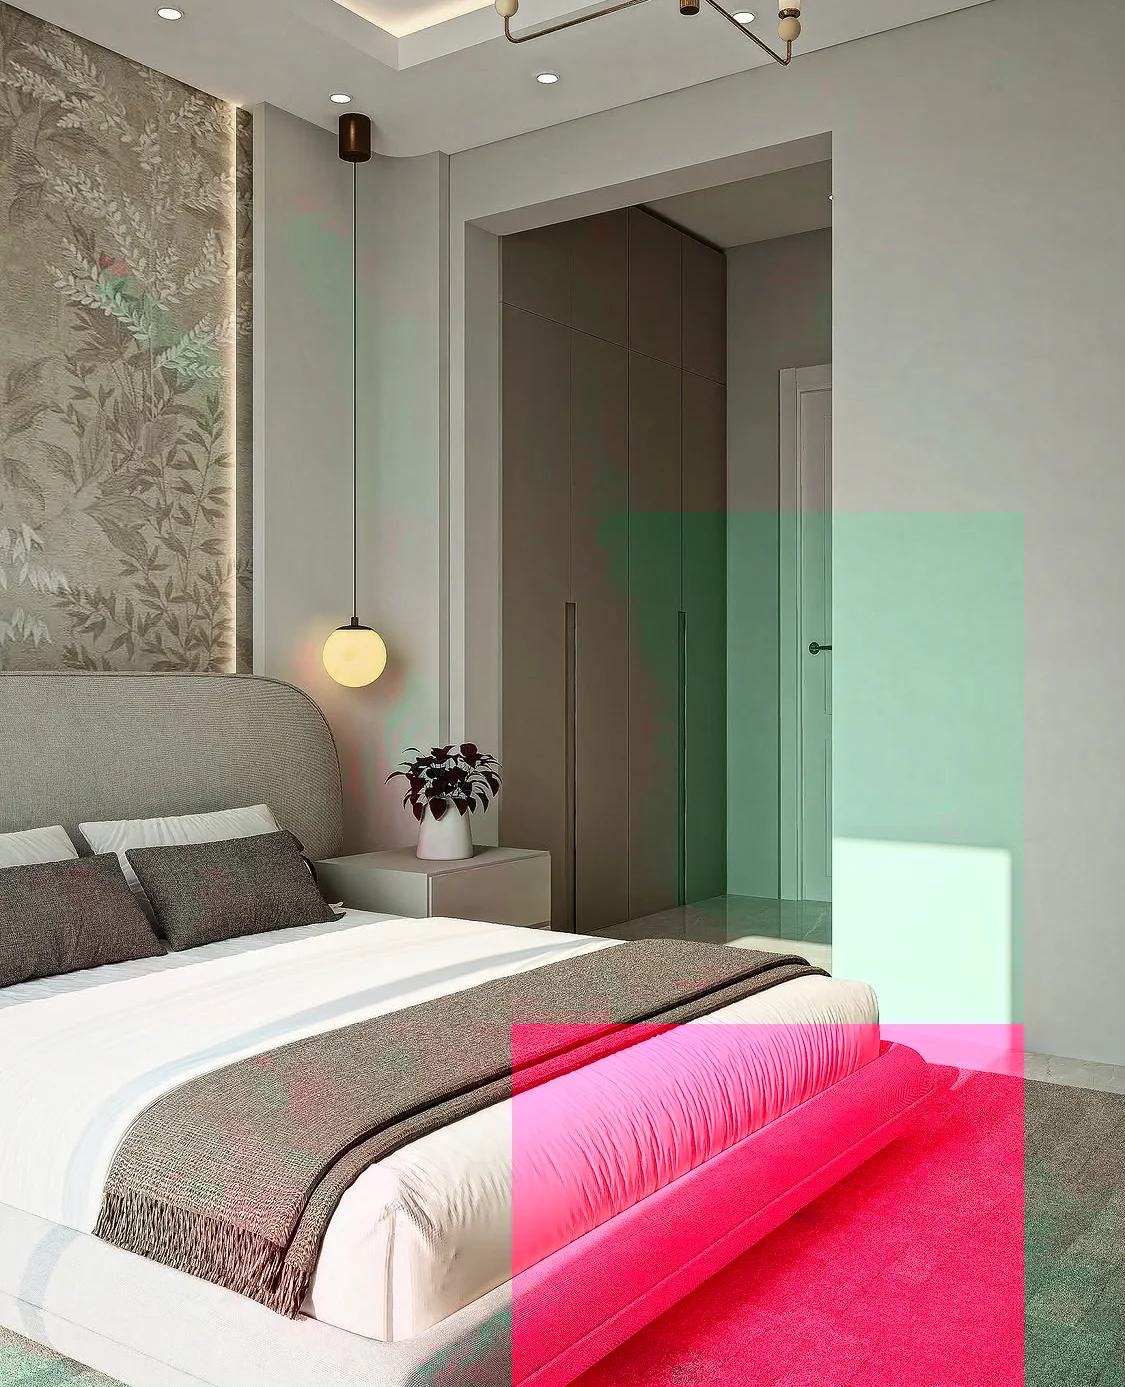
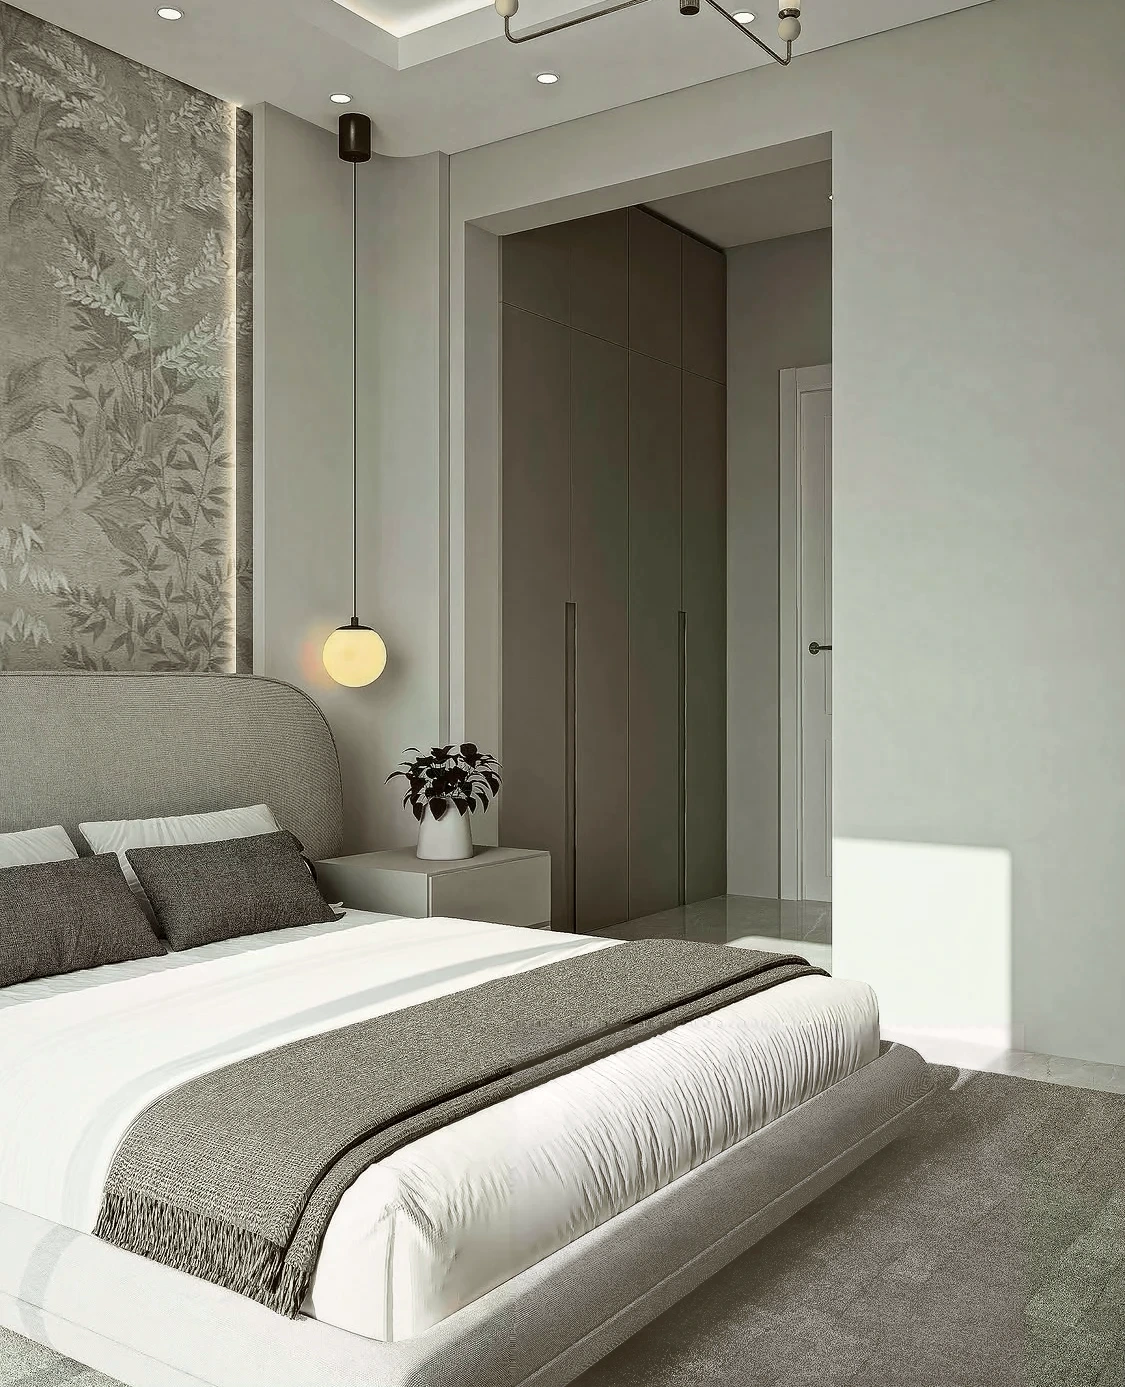
fix(images): restore natural 10-bit HEIC color channels for Master Room photos

diff --git a/src/data/company.ts b/src/data/company.ts
@@ -37,11 +37,11 @@ export const IMAGES = {
   storage2: '/images/storage_2.webp',
   customWardrobe: '/images/custom_wardrobe_main.webp',
   modernBedroom: '/images/modern_bedroom_main.webp',
-  masterRoom1: '/images/master_room_1.webp',
-  masterRoom2: '/images/master_room_2.webp',
-  masterRoom3: '/images/master_room_3.webp',
-  masterRoom4: '/images/master_room_4.webp',
-  masterRoom5: '/images/master_room_5.webp',
+  masterRoom1: '/images/master_room_1.webp?v=2',
+  masterRoom2: '/images/master_room_2.webp?v=2',
+  masterRoom3: '/images/master_room_3.webp?v=2',
+  masterRoom4: '/images/master_room_4.webp?v=2',
+  masterRoom5: '/images/master_room_5.webp?v=2',
   commercialBoutique: '/images/interior_commercial_boutique_1794440350349.webp',
   architecturalRenovation: '/images/interior_architectural_renovation_1794440349766.webp',
 } as const;
